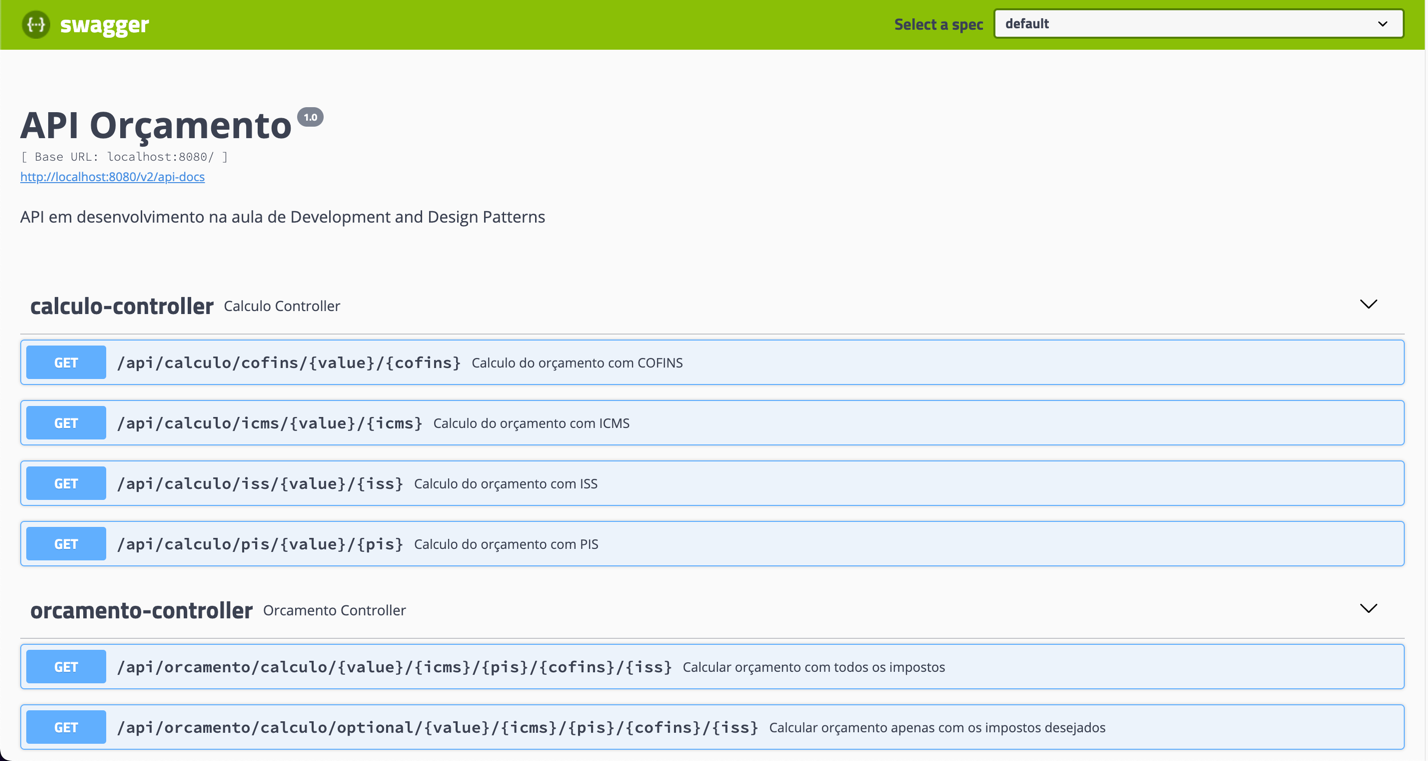
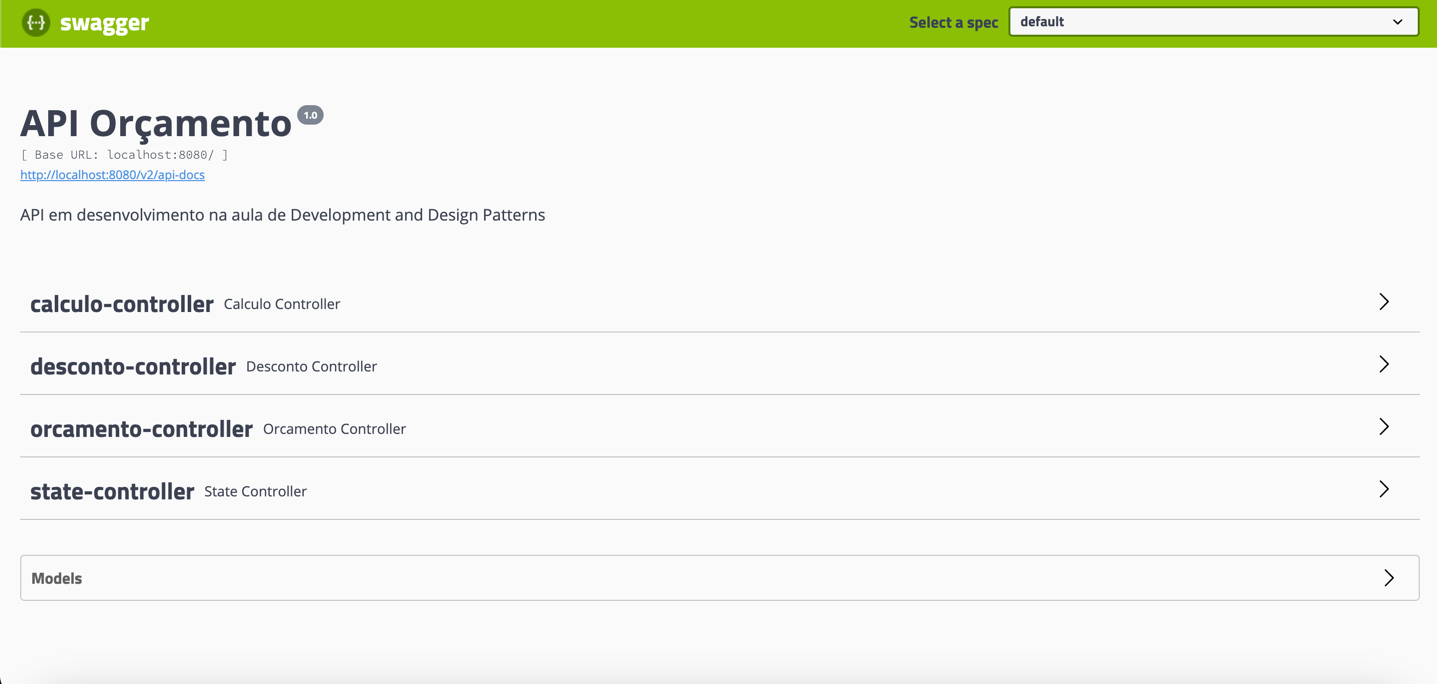
:construction: feat: adicionado States ao projeto :construction: books: atualizado documentação

diff --git a/src/main/java/com/develop/orcamentoapi/OrcamentoAPI/Controller/StateController.java b/src/main/java/com/develop/orcamentoapi/OrcamentoAPI/Controller/StateController.java
@@ -1,0 +1,28 @@
+package com.develop.orcamentoapi.OrcamentoAPI.Controller;
+
+import com.develop.orcamentoapi.OrcamentoAPI.Domain.Desconto;
+import com.develop.orcamentoapi.OrcamentoAPI.Domain.Orcamento;
+import com.develop.orcamentoapi.OrcamentoAPI.Services.StateServices;
+import io.swagger.annotations.ApiOperation;
+import org.springframework.beans.factory.annotation.Autowired;
+import org.springframework.http.HttpStatus;
+import org.springframework.http.ResponseEntity;
+import org.springframework.web.bind.annotation.GetMapping;
+import org.springframework.web.bind.annotation.PathVariable;
+import org.springframework.web.bind.annotation.PostMapping;
+import org.springframework.web.bind.annotation.RestController;
+
+import javax.swing.plaf.nimbus.State;
+
+@RestController
+public class StateController {
+    @Autowired
+    private StateServices stateServices;
+
+    @GetMapping(path = "api/state/check/{status}")
+    @ApiOperation(value = "Calculo do valor desconto do orçamento")
+    public ResponseEntity realizaCheckStatus(@PathVariable(value = "status") StateServices.States status){
+        var valueFinal = stateServices.checkState(status);
+        return ResponseEntity.status(HttpStatus.OK).body(valueFinal);
+    }
+}

diff --git a/src/main/java/com/develop/orcamentoapi/OrcamentoAPI/Controller/DescontoController.java b/src/main/java/com/develop/orcamentoapi/OrcamentoAPI/Controller/DescontoController.java
@@ -1,9 +1,6 @@
 package com.develop.orcamentoapi.OrcamentoAPI.Controller;
-
 import com.develop.orcamentoapi.OrcamentoAPI.Domain.Desconto;
-import com.develop.orcamentoapi.OrcamentoAPI.Domain.ISS;
 import com.develop.orcamentoapi.OrcamentoAPI.Domain.Orcamento;
-import com.develop.orcamentoapi.OrcamentoAPI.Services.CalculoServices;
 import com.develop.orcamentoapi.OrcamentoAPI.Services.DescontoServices;
 import io.swagger.annotations.ApiOperation;
 import org.springframework.beans.factory.annotation.Autowired;

diff --git a/src/main/java/com/develop/orcamentoapi/OrcamentoAPI/Services/StateServices.java b/src/main/java/com/develop/orcamentoapi/OrcamentoAPI/Services/StateServices.java
@@ -1,0 +1,16 @@
+package com.develop.orcamentoapi.OrcamentoAPI.Services;
+
+import org.springframework.stereotype.Service;
+
+@Service
+public class StateServices {
+    public enum States{
+        EM_APROVACAO,
+        APROVADO,
+        REPROVADO,
+        FINALIZADO
+    }
+    public States checkState(States states){
+        return states;
+    }
+}

diff --git a/README.md b/README.md
@@ -27,6 +27,12 @@
 <img src="readme/img.png" width="900" height="550"/>
 </div>
 
+## Integrantes da equipe
+<p align="justify">Gabriel Menoi - RA:602655</p>
+<p align="justify">Gabriel Mielo - RA:601128</p>
+<p align="justify">Matheus Araújo - RA:603236</p>
+
+
 [//]: # (## Técnicas e tecnologias utilizadas)
 
 [//]: # ()
